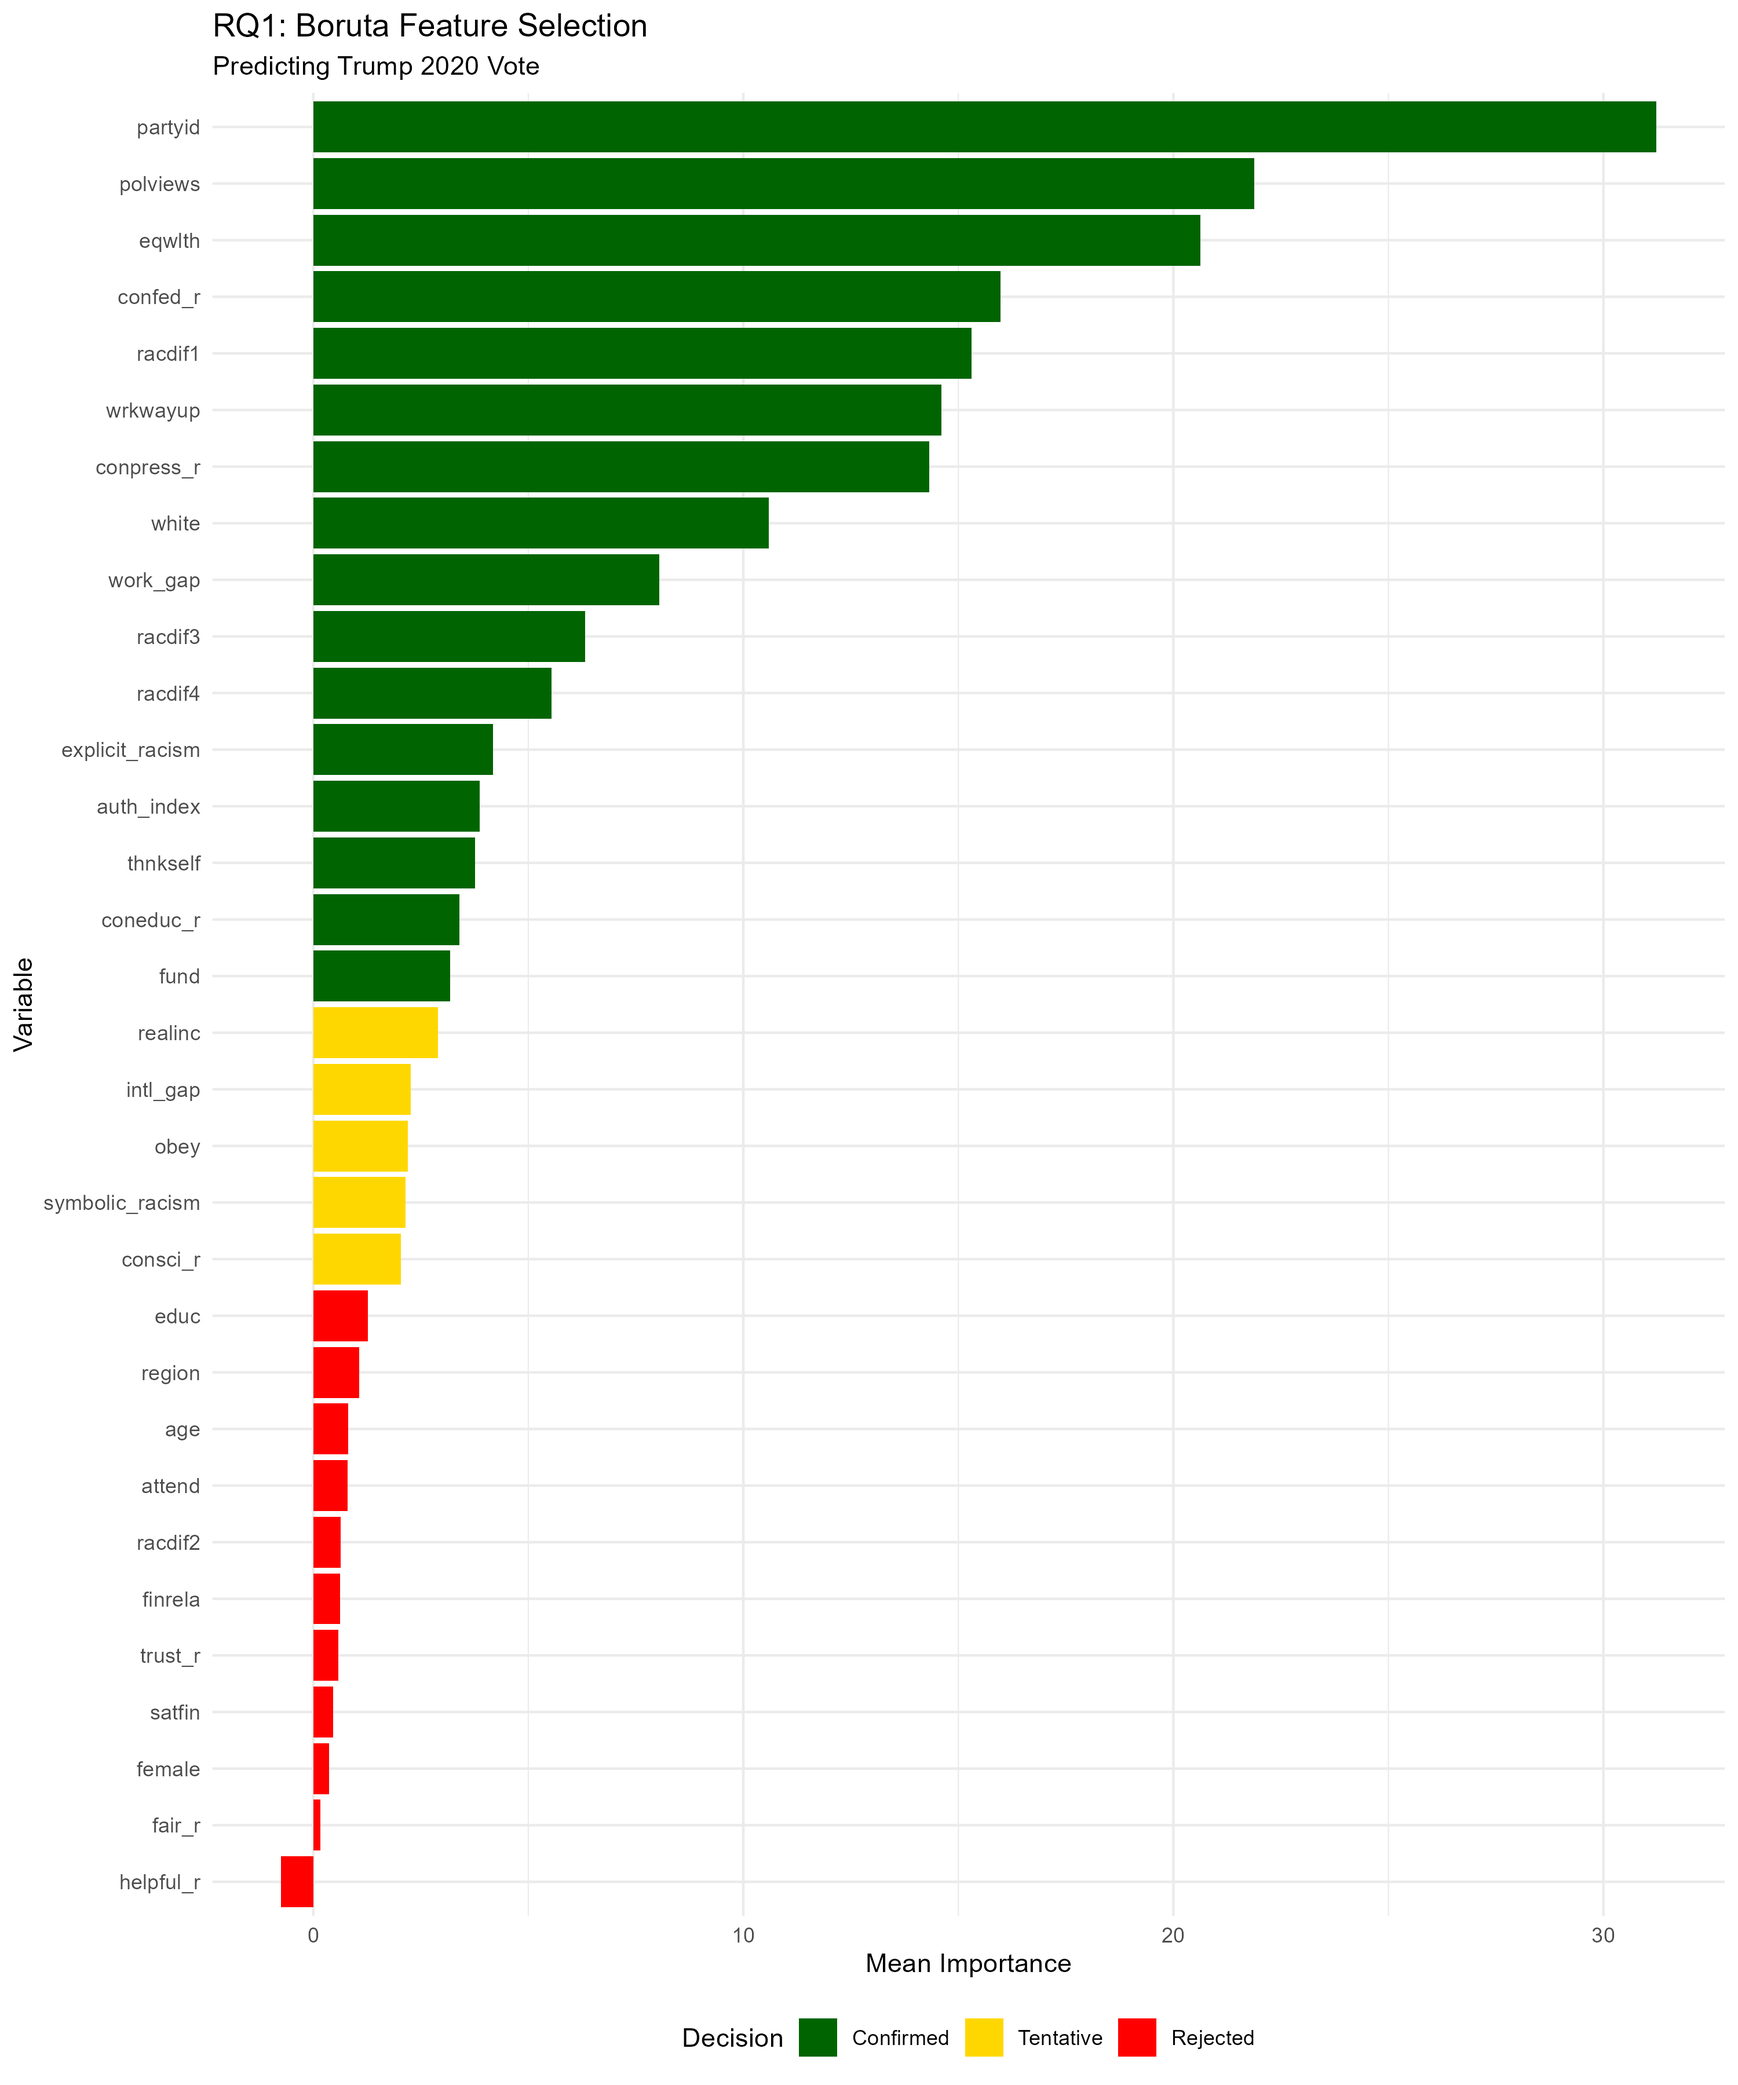
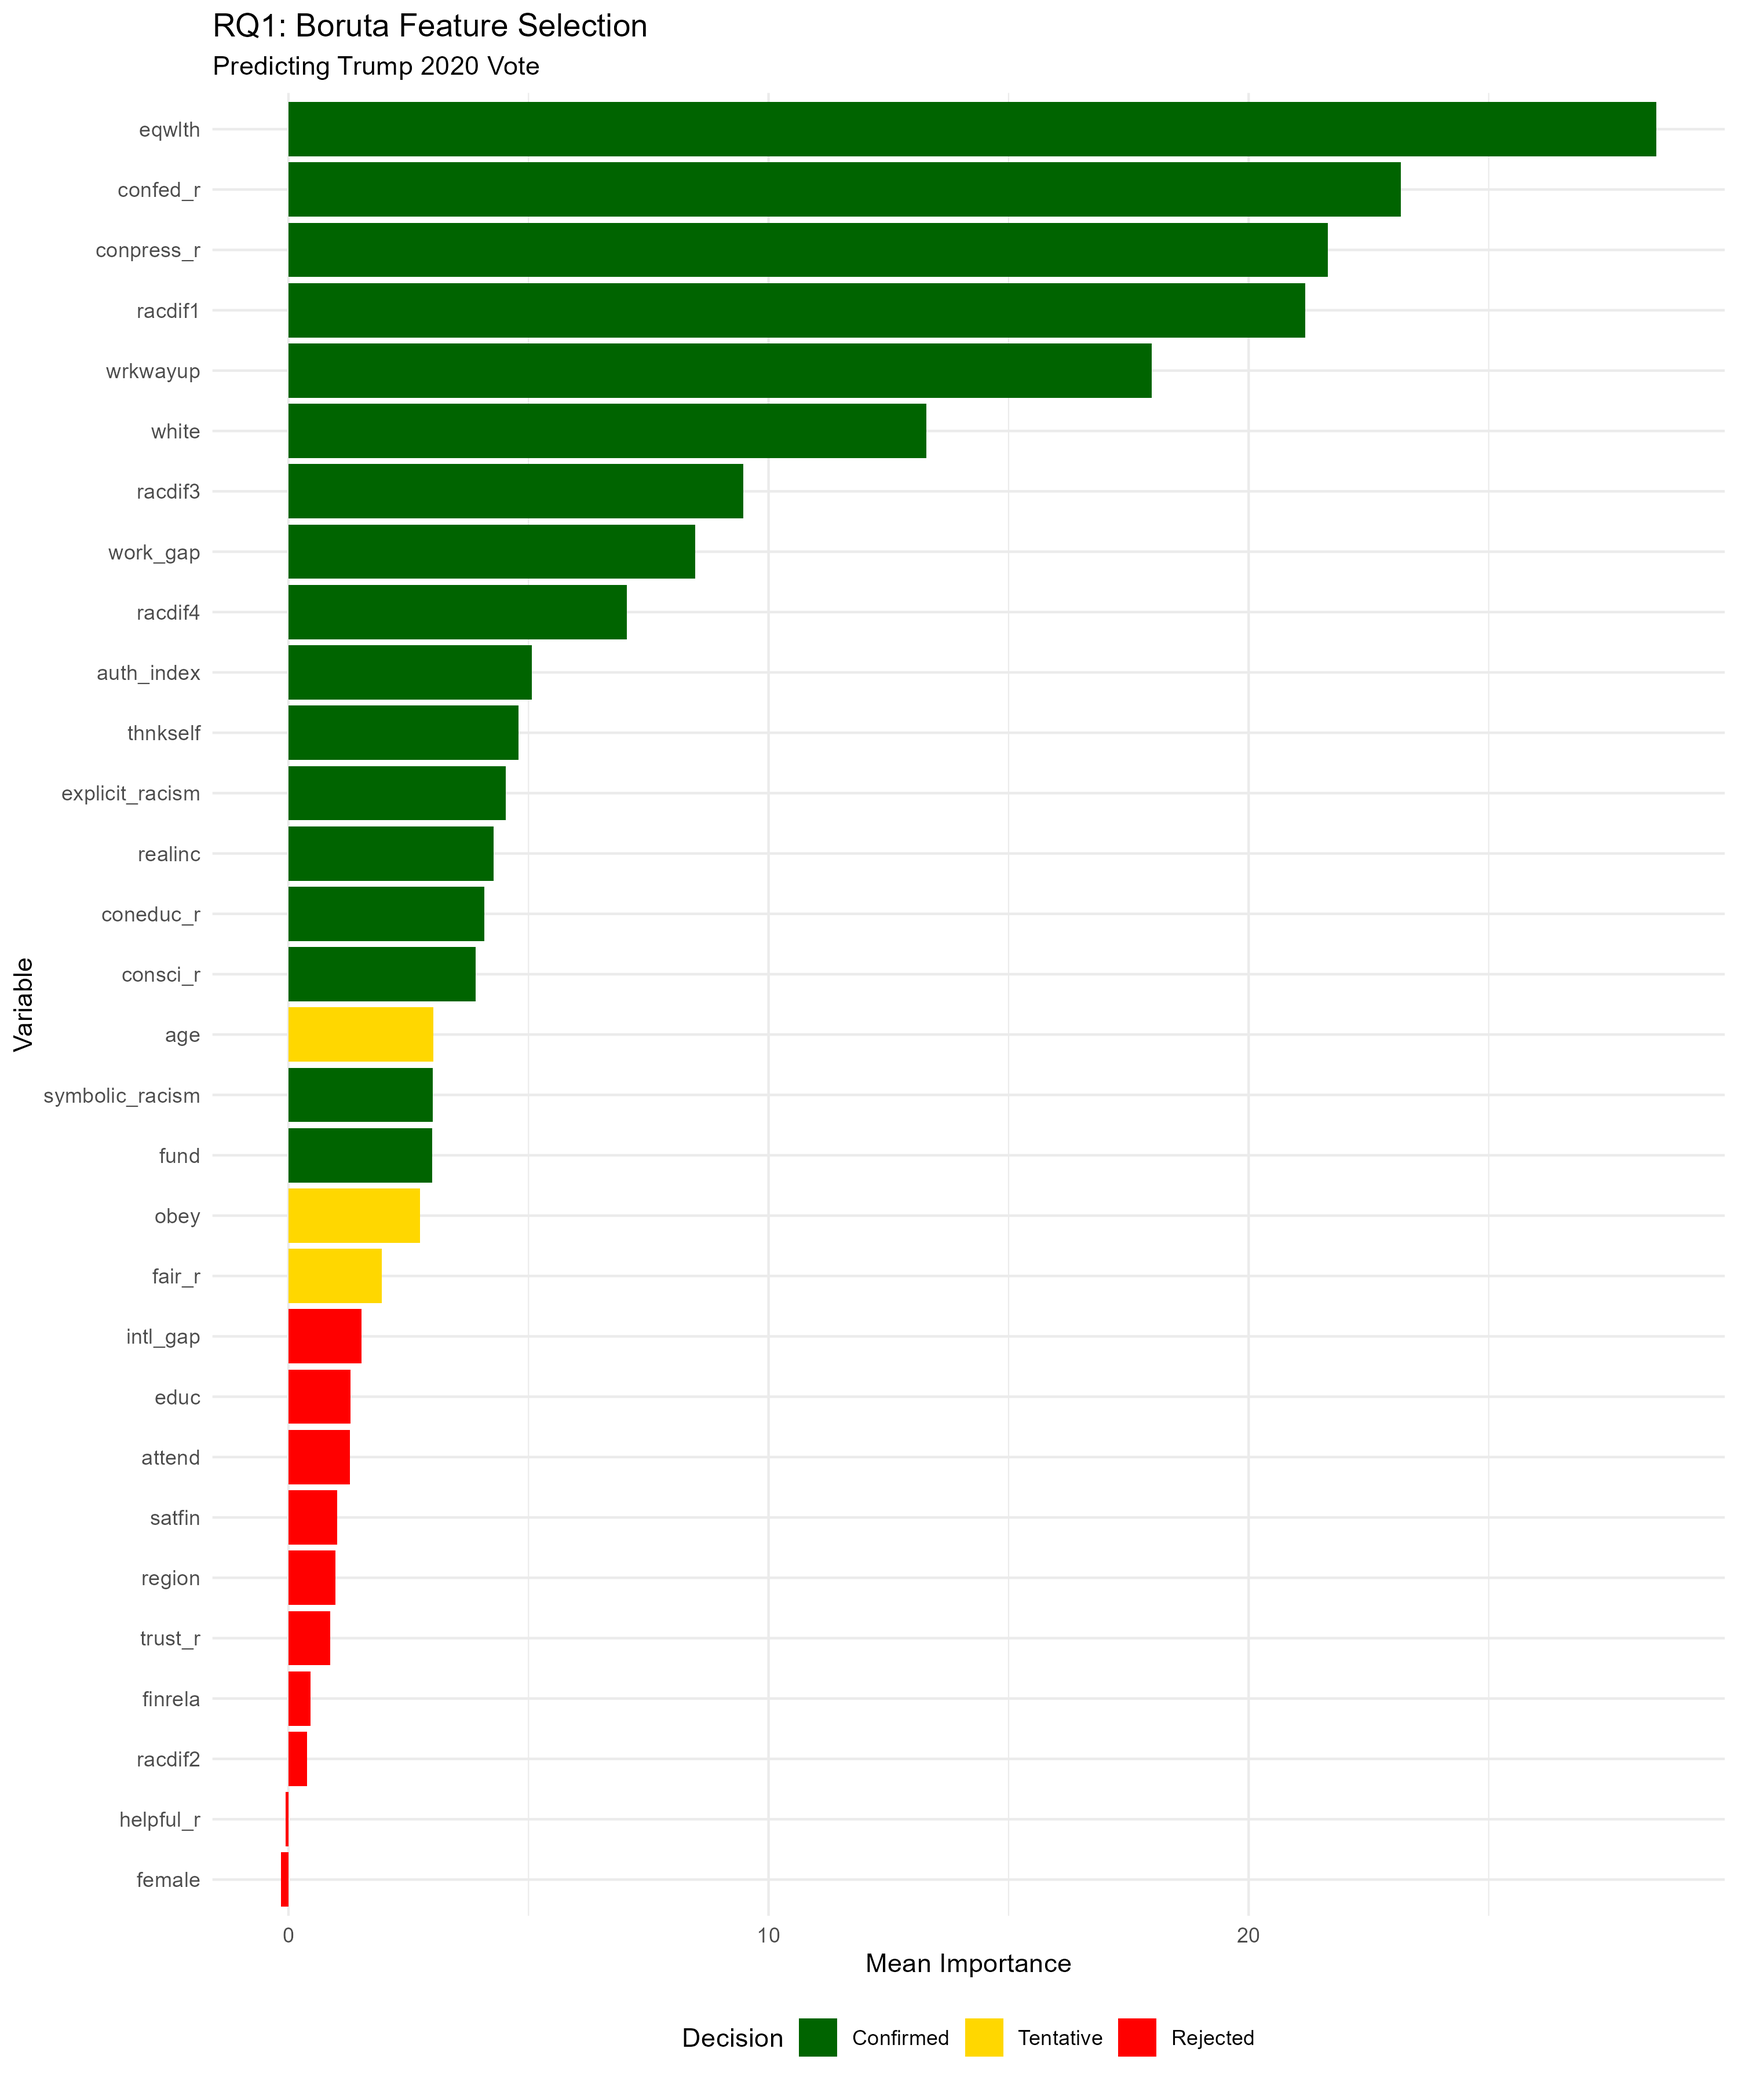
Remove partyid/polviews from variable importance analysis
Tautological predictors ("Republicans voted Republican") obscured
substantive findings. With these removed:

- eqwlth (redistribution) emerges as #1 predictor
- racdif1 (discrimination denial) is top racial attitude (#3 overall)
- Intelligence stereotype (intl_gap) REJECTED by Boruta - not a predictor
- Genetic attribution (racdif2) REJECTED - not a predictor
- Work ethic stereotype (work_gap) confirmed as significant

Key finding: The IQ/genetics debate is empirically irrelevant to Trump
voting. What matters is the meritocracy narrative (denial of barriers,
bootstrap ideology, laziness attribution).

🤖 Generated with [Claude Code](https://claude.com/claude-code)

diff --git a/output/item_level_analysis.md b/output/item_level_analysis.md
@@ -2,91 +2,106 @@
 
 ## Summary
 
-Decomposing the composite racism measures into individual items reveals that **not all racial attitudes are equally predictive** of Trump voting. The "lazy" stereotype and denial of discrimination dominate; genetic attribution and intelligence stereotypes matter little.
+Decomposing the composite racism measures into individual items reveals that **not all racial attitudes are equally predictive** of Trump voting. Excluding the tautological predictors (partyid, polviews), we find that denial of discrimination and bootstrap ideology dominate; genetic attribution and intelligence stereotypes matter little.
 
 ## Results
 
-### Variable Importance Ranking (Bootstrap-Stabilized)
+### Variable Importance Ranking (Bootstrap-Stabilized, N=450)
+
+*Excluding partyid and polviews - "Republicans voted Republican" is not insight.*
 
 | Rank | Variable | Importance | Type | Content |
 |------|----------|------------|------|---------|
-| 1 | partyid | 0.293 | Control | Party identification |
-| 2 | polviews | 0.137 | Control | Liberal-conservative |
-| 3 | eqwlth | 0.102 | Economic | Govt should reduce inequality |
-| 4 | conpress | 0.083 | Institutional | Confidence in press |
-| **5** | **racdif1** | **0.072** | **Symbolic** | **Discrimination causes inequality** |
-| **6** | **wrkwayup** | **0.059** | **Symbolic** | **Work way up without favors** |
-| 7 | confed | 0.056 | Institutional | Confidence in fed govt |
-| 8 | age | 0.030 | Demographic | Age |
-| 9 | realinc | 0.026 | Demographic | Income |
-| **10** | **work_gap** | **0.026** | **Explicit** | **Work ethic stereotype** |
-| 11 | educ | 0.022 | Demographic | Education |
-| **12** | **racdif3** | **0.020** | **Symbolic** | **Lack of motivation** |
-| **13** | **intl_gap** | **0.018** | **Explicit** | **Intelligence stereotype** |
-| 14 | attend | 0.018 | Religious | Church attendance |
-| 15 | white | 0.016 | Demographic | Race (white) |
-| **16** | **racdif4** | **0.011** | **Symbolic** | **Lack of education** |
-| 17 | female | 0.007 | Demographic | Gender |
-| **18** | **racdif2** | **0.005** | **Explicit** | **Inborn ability (genetic)** |
+| 1 | eqwlth | 0.088 | Economic | Govt should reduce inequality |
+| 2 | confed_r | 0.063 | Institutional | Confidence in fed govt |
+| **3** | **racdif1** | **0.058** | **Symbolic** | **Discrimination causes inequality** |
+| 4 | conpress_r | 0.055 | Institutional | Confidence in press |
+| **5** | **wrkwayup** | **0.049** | **Symbolic** | **Work way up without favors** |
+| 6 | white | 0.021 | Demographic | Race (white) |
+| **7** | **racdif3** | **0.020** | **Symbolic** | **Lack of motivation** |
+| 8 | age | 0.019 | Demographic | Age |
+| 9 | realinc | 0.017 | Demographic | Income |
+| 10 | auth_index | 0.015 | Psychological | Authoritarianism |
+| **11** | **work_gap** | **0.015** | **Explicit** | **Work ethic stereotype** |
+| **12** | **racdif4** | **0.014** | **Symbolic** | **Lack of education** |
+| 13 | thnkself | 0.013 | Psychological | Think for self (auth) |
+| **14** | **explicit_racism** | **0.010** | **Explicit** | **Composite stereotypes** |
+| 15 | fund | 0.010 | Religious | Fundamentalism |
+| 16 | consci_r | 0.009 | Institutional | Confidence in science |
+| **17** | **symbolic_racism** | **0.009** | **Symbolic** | **Composite symbolic** |
+| 18 | coneduc_r | 0.008 | Institutional | Confidence in education |
+
+**Rejected by Boruta** (not significant predictors): intl_gap, racdif2, educ, attend, region, satfin, finrela, helpful_r, trust_r, female
 
 ### Racism Items Only
 
-| Rank | Item | Importance | Interpretation |
-|------|------|------------|----------------|
-| 1 | racdif1 | 0.072 | Denying discrimination causes inequality → Trump |
-| 2 | wrkwayup | 0.059 | "Work way up without favors" → Trump |
-| 3 | work_gap | 0.026 | "Blacks are lazy" stereotype → Trump |
-| 4 | racdif3 | 0.020 | Attributing inequality to lack of motivation → Trump |
-| 5 | intl_gap | 0.018 | "Blacks are less intelligent" stereotype → Trump |
-| 6 | racdif4 | 0.011 | Denying education gap → Trump |
-| 7 | racdif2 | 0.005 | Genetic/inborn ability attribution → (barely matters) |
+| Rank | Item | Importance | Boruta | Interpretation |
+|------|------|------------|--------|----------------|
+| 1 | racdif1 | 0.058 | Confirmed | Denying discrimination causes inequality → Trump |
+| 2 | wrkwayup | 0.049 | Confirmed | "Work way up without favors" → Trump |
+| 3 | racdif3 | 0.020 | Confirmed | Attributing inequality to lack of motivation → Trump |
+| 4 | work_gap | 0.015 | Confirmed | "Blacks are lazy" stereotype → Trump |
+| 5 | racdif4 | 0.014 | Confirmed | Attributing inequality to lack of education → Trump |
+| 6 | intl_gap | — | **Rejected** | "Blacks are less intelligent" → **NOT A PREDICTOR** |
+| 7 | racdif2 | — | **Rejected** | Genetic/inborn ability → **NOT A PREDICTOR** |
 
 ## Key Insights
 
-### 1. Denial of Discrimination (#1) > Stereotypes
+### 1. Economic Redistribution is #1
 
-The strongest racial attitude predictor isn't a stereotype at all - it's **racdif1**: whether you believe discrimination causes Black-White inequality. Saying "no" strongly predicts Trump voting.
+Once we remove partisan identity, **eqwlth** (government should reduce income differences) emerges as the top predictor. This isn't about race directly, but connects to the deservingness narrative below.
+
+### 2. Institutional Distrust Matters
+
+Confidence in federal government (#2) and press (#4) are major predictors. Trump voting is associated with institutional skepticism.
+
+### 3. Denial of Discrimination (#3) > All Stereotypes
+
+The strongest racial attitude predictor is **racdif1**: whether you believe discrimination causes Black-White inequality. Saying "no" strongly predicts Trump voting.
 
 This is a *symbolic racism* item, not explicit prejudice.
 
-### 2. Work Ethic > Intelligence
+### 4. Work Ethic > Intelligence (Intelligence Doesn't Matter)
 
 Among explicit stereotype measures:
-- **Work ethic gap**: importance = 0.026
-- **Intelligence gap**: importance = 0.018
+- **Work ethic gap**: importance = 0.015, Boruta **Confirmed**
+- **Intelligence gap**: Boruta **Rejected** - not a significant predictor
 
-The "lazy" stereotype is 44% more predictive than the "unintelligent" stereotype.
+The "lazy" stereotype predicts Trump voting. The "unintelligent" stereotype does not.
 
-### 3. Genetic Attribution Barely Matters
+### 5. Genetic Attribution Doesn't Matter At All
 
-**racdif2** (inborn ability/genetic explanation) ranks **dead last** among all racism items, despite being conceptually the most "explicitly racist" belief.
+**racdif2** (inborn ability/genetic explanation) was **rejected by Boruta** as a predictor, despite being conceptually the most "explicitly racist" belief.
 
-This suggests that overt biological racism isn't what differentiates Trump from Biden voters. Instead, it's:
+This means overt biological racism isn't what differentiates Trump from Biden voters. Instead, it's:
 - Denying structural barriers (racdif1)
 - Endorsing bootstrap ideology (wrkwayup)
 - Attributing inequality to effort/motivation (racdif3, work_gap)
 
-### 4. The Meritocracy Narrative
+### 6. The Meritocracy Narrative
 
 The pattern points to a **meritocracy-based racial resentment**:
 - "Discrimination isn't holding Black people back"
 - "They just need to work harder like everyone else"
 - "They're lazy, not victims of circumstance"
 
-This is distinct from:
-- "Black people are genetically inferior" (racdif2 - doesn't predict)
-- "Black people are less intelligent" (intl_gap - weak predictor)
+This is **completely distinct** from:
+- "Black people are genetically inferior" (racdif2 - rejected as predictor)
+- "Black people are less intelligent" (intl_gap - rejected as predictor)
 
 ## Implications
 
-1. **Composite measures obscure important variation**: The "explicit racism" composite averaged items with very different predictive power.
+1. **Composite measures obscure critical variation**: The "explicit racism" composite averaged items with very different predictive power. The intelligence stereotype pulls weight, but it's not doing anything for Trump prediction.
 
-2. **The intelligence/IQ debate may be a distraction**: Much political discussion focuses on whether IQ differences are genetic. But this belief (racdif2) doesn't predict voting. What matters is whether you think Black people are *lazy* and whether *discrimination is real*.
+2. **The IQ debate is politically irrelevant**: Much political discussion focuses on whether IQ differences are genetic. But neither this belief (racdif2) nor the intelligence stereotype (intl_gap) predict Trump voting. These are empirically dead ends for understanding the racial politics of 2020.
 
-3. **Symbolic racism items outperform explicit stereotypes**: This supports the symbolic racism literature - it's about racial resentment of "undeserved" benefits, not old-fashioned stereotypes.
+3. **Symbolic racism items outperform explicit stereotypes**: This strongly supports the symbolic racism literature - it's about racial resentment of "undeserved" benefits, not old-fashioned stereotypes.
 
-4. **Connects to welfare state attitudes**: Note that eqwlth (redistribution) ranks #3 overall. The racial attitudes that matter most are those tied to deservingness and effort.
+4. **The economic connection**: eqwlth (redistribution) ranks #1 overall. The racial attitudes that matter most are those tied to deservingness and effort - the same logic underlying opposition to redistribution.
+
+5. **For measurement**: Future research should consider whether composite racism scales obscure more than they reveal. Individual items differ dramatically in their political relevance.
 
 ---
 
-*Analysis: Random Forest with 50 bootstrap samples for stability. N = 437 complete cases. Test AUC = 0.991.*
+*Analysis: Random Forest with Boruta feature selection + 50 bootstrap samples for stability. N = 450 complete cases. Test AUC = 0.931. Excluding partyid and polviews as tautological.*
+
